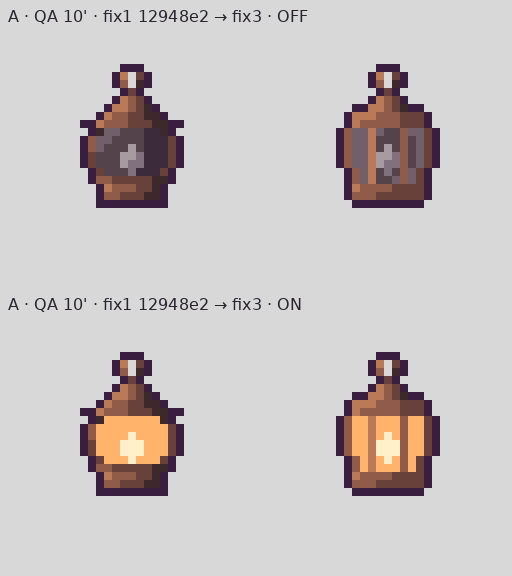
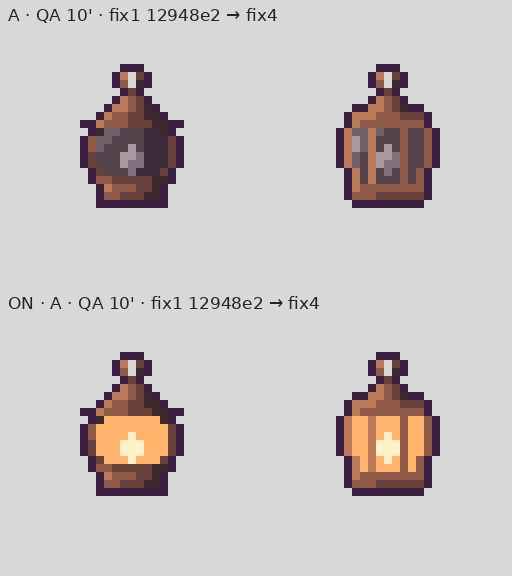
asset13: apply exact B36 Route K plan to S lantern (fix4)
Keep light layer and fix3 comparison byte-identical.
QA 1.2a 24/24 and locked design preflight 1.2c PASS.
RUN_ID ae124e670f384fa8a5468023f8eb1827.

diff --git a/CODEX_STATUS.md b/CODEX_STATUS.md
@@ -41,3 +41,4 @@
 ชุด13 ส่วนS fix1 · 17 ต.ค.2569 · ฉบับ1.1 @a018eea ต่อcommit ea1dccc · c2-held-lantern_L0-S-trial.png + -light.png + .json + -x8.png + -fix1-compare-x8.png · ภาพหลักแก้31px: แถบฝาทองแดงy11ติด9px ฐานy19/20ติด7px; กระจกติดทองแดง23คู่ ΔE00minดับ10.6065/เปิด32.7771; คริสตัล8px 3×4 แถว1-3-3-1 สองเฉด#A89AA1/#81717Eหน้าตัดสว่างซ้ายบน · bbox[10,4,23,22]13×18 grip[16,6]รูเดิม[(16,5),(16,6)] ใต้15เหนือ2ห่วง5 ขอบพลัม46/46 alpha0/255ชิ้นเดียว สีต้องห้าม0 · แสงกระจก42คริสตัล8 นอกวัสดุ0 JSON/SHAตรง · self-QAฉบับ1.1 11/11+ข้อเพิ่ม4/4; qa_asset13.pyต้นฉบับ10/11ตกเพียงข้อ5เพดานคริสตัล2–6ที่ถูกแทน สำเนาใน/tmpเปลี่ยนเฉพาะเกณฑ์6–8/ชื่อข้อ ไม่แก้สคริปต์repo · ภาพเทียบ512×576 ก่อน/หลังดับ/เปิด ขยายเฉพาะภาพตรวจแบบพิกเซล8เท่า · ต่างจากสเปก: ไม่มี · PixelLab0เครดิต · รอตรวจอิสระ/ความสวย≥8.5/เจ้าของรับ ยังไม่ทำ8ทิศ
 ชุด13 ส่วนS fix2 B2 · 18 ต.ค.2569 · สเปก1.2/QAล็อก@6b71b62(แทนช่องSHA_QA_1.2aในข้อความ:ข้อ10ตรงกัน) ต่อ12948e2 · c2-held-lantern_L0-S-trial.png + -light.png + .json + -x8.png + -fix2-compare-x8.png · self-QAโหมด1.2ต้นฉบับไม่แก้24/24(qa blob90cf6035) · C1แถว10/11=9/9 C3แถว19/20=9/9ก้น21; C2ซี่x14/x18ยาว7/7 ΔE00กับกระจกต่ำสุดดับ16.38/เปิด19.11 กับคริสตัล18.23/43.78; C2bกระจกนอก≥2สองด้าน7แถว; C4aมีกระจกเหนือใต้คริสตัลแตะโครง0 C4bซ้าย2/ขวา2บนล่าง0 · G1แสงกระจก41px คริสตัล8px1-3-3-1สองเฉด; G2แถว4–8ตรงทุกจุด แถว9เพิ่มพลัมx12,x20เท่านั้น · G3ตรวจเพิ่มรายเฟรม70/70บังตัวเพิ่ม≤10 maxทิศS7 SE7 E10 NE5 NW5 W10 SW7(สคริปต์หลักเทียบmaxรายทิศได้SW6) · V5aขอบในอ่อน0/29 V5bกระจกอ่อน0/41 · bbox[10,4,23,22]13×18 grip[16,6]รูเดิม[(16,5),(16,6)] ใต้15เหนือ2 ขอบพลัม48/48 สีต้องห้าม0 alpha0/255ชิ้นเดียว; ภาพหลักเปลี่ยน74px alphaเพิ่ม10ลบ0; JSON/SHAและภาพเทียบ512×576ตรง4ช่อง · วาดnativeไม่ลอกภาพทดลอง ขยายเฉพาะภาพตรวจ8เท่า · ต่างจากสเปก: ไม่มี · PixelLab0เครดิต · รอตรวจอิสระและArtistic Gateภาพเปล่า/B2+Glow+C ไม่ยืมคะแนนmockup ไม่ทำ8ทิศ ไม่ปิดQG-5a
 ชุด 13 fix3 · 18 ต.ค.2569 · ฐานSHA ca3d75b ต่อS3+Route Mตามสเปก1.2b@75d7c47 · asset4ไฟล์เดิม + A = fix1→fix3 (c2-held-lantern_L0-S-trial-fix2-compare-x8.png ชื่อคงที่ QA10') · B = fix2→fix3 (c2-held-lantern_L0-S-trial-fix3-vs-fix2-x8.png) · self-checkเครื่องตรวจล็อกไม่แก้: References OK QA1.2a24/24 exit0 D1–D4 15/15 Route M PASS Sheet A PASS Sheet B PASS PREFLIGHT: PASS exit0 · ภาพหลักแก้25pxทึบ168≤170; G1=37คริสตัล8; widths y9–21=9,11,11,13,13,13,13,13,11,11,11,11,9; bbox/grip/รูเดิม · โครงL/R=#915B49/#67413A ซี่L/R=#BB7A57/#915B49; ΔL*โครง12.47ซี่13.03; L*ทองแดงL/R y10=53.98/34.86 y11=47.47/34.86 y12–18=50.73/37.97 y19=47.47/31.74 y20=41.09/31.74 ทั้ง11แถวOK · กระจกแตะพลัม0 ทองแดงเกิน0 สีใหม่0 · MARGINS:G3เพิ่ม S6 SE6 E8 NE4 NW4 W8 SW6 จึงเผื่อ4/4/2/6/6/2/4px; 8cดับ14.5847/เปิด19.1061 เผื่อ4.5847/9.1061; D4b14.58เผื่อ0.58; C2กระจก16.38/19.11เผื่อ1.38/4.11 คริสตัล18.23/32.26เผื่อ3.23/17.26; V5a23.07เผื่อ3.07 V5b15.87เผื่อ0.87 · แผ่นA/B512×576ทึบทั้งแผ่นพื้น#D8D8D8ไม่มีจุดเกิน ป้ายอยู่แถบหัวตามกำหนด · ต่างจากสเปก: ไม่มี · PixelLab0เครดิต ไม่แตะQA/สเปก/เกม/Pilot/Glow+C ไม่ทำ8ทิศ · รอClaudeตรวจอิสระ/ภาพในมือและArtistic Gate คะแนนทดลองใช้แทนไม่ได้
+ชุด 13 fix4 · 24 ต.ค. 2569 · ฐาน commit 776eae0 · สเปก 1.2c @72a84fb · SHA-256: png 8d9485bf70f13f95ffec7d4bed54de895b9f2c00acbc281c28c3819e571684c3 · light e86599ffcab25f03fc86ca774227806f1c506726ebe80657acbc88cfd645b8a5 (ค่าเดิม) · json 2637609f5aa4fc201cc9fa6efeadf2349478875444e0473a9c50147113aaf36d · x8 bfc426aeb0e227ea058586fe3b8763a72e42b359973f198d2dd62c76e235042c · A 878a15b2d36c6f4b98109d230c6769cea7c9eafe3118f4829a8f4fefb60636c8 · B 95613ae345772ec6e764a54773bc2c9095fe2953e4da3935ff3a1a260180c190 · A = fix1→fix4 · B = fix3→fix4 · self-check QA 1.2a exit 0 24/24 · RUN_ID ae124e670f384fa8a5468023f8eb1827 · PREFLIGHT: PASS exit 0 · D15/15 Route K P1a36/ขาด0/ผิดสี0/เกิน0 P1b0 P1c/P2 SHAเดิม P1d21 X1ตรง14ค่า A/Bผ่านแบบเข้ม · ต่างจากสเปก: self-check ใช้โฟลเดอร์ /dev/shm/la-fix4-IGRBr9 แทน /tmp เพราะ /tmp อยู่ใน repository
